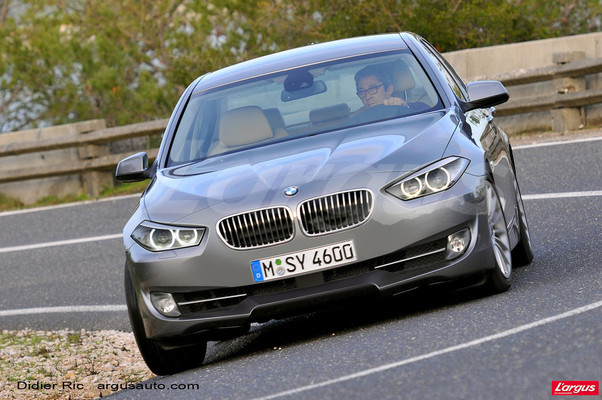
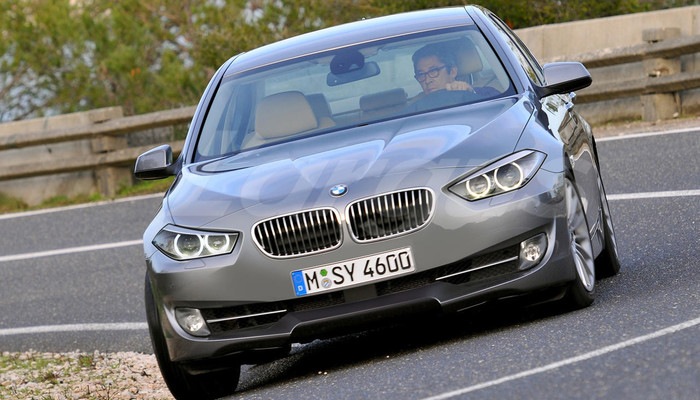
display advert picture admin

diff --git a/app/assets/stylesheets/advert.css.scss b/app/assets/stylesheets/advert.css.scss
@@ -1,3 +1,9 @@
 // Place all the styles related to the advert controller here.
 // They will automatically be included in application.css.
 // You can use Sass (SCSS) here: http://sass-lang.com/
+
+.table > tbody > tr > td.vertical-align
+{
+  height: 65px !important;
+  vertical-align: middle !important;
+}

diff --git a/app/models/advert.rb b/app/models/advert.rb
@@ -2,7 +2,7 @@ class Advert < ActiveRecord::Base
 	has_one :order
 	belongs_to :model
 
-	has_attached_file :picture, styles: { top: "800x500#", default: "700x400#" }, default_url: "/images/:style/missing.png"
+	has_attached_file :picture, styles: { top: "800x500#", default: "700x400#", small: "100x50#" }, default_url: "/images/:style/missing.png"
 
 	validates_attachment_content_type :picture, :content_type => /\Aimage\/.*\Z/
 end
